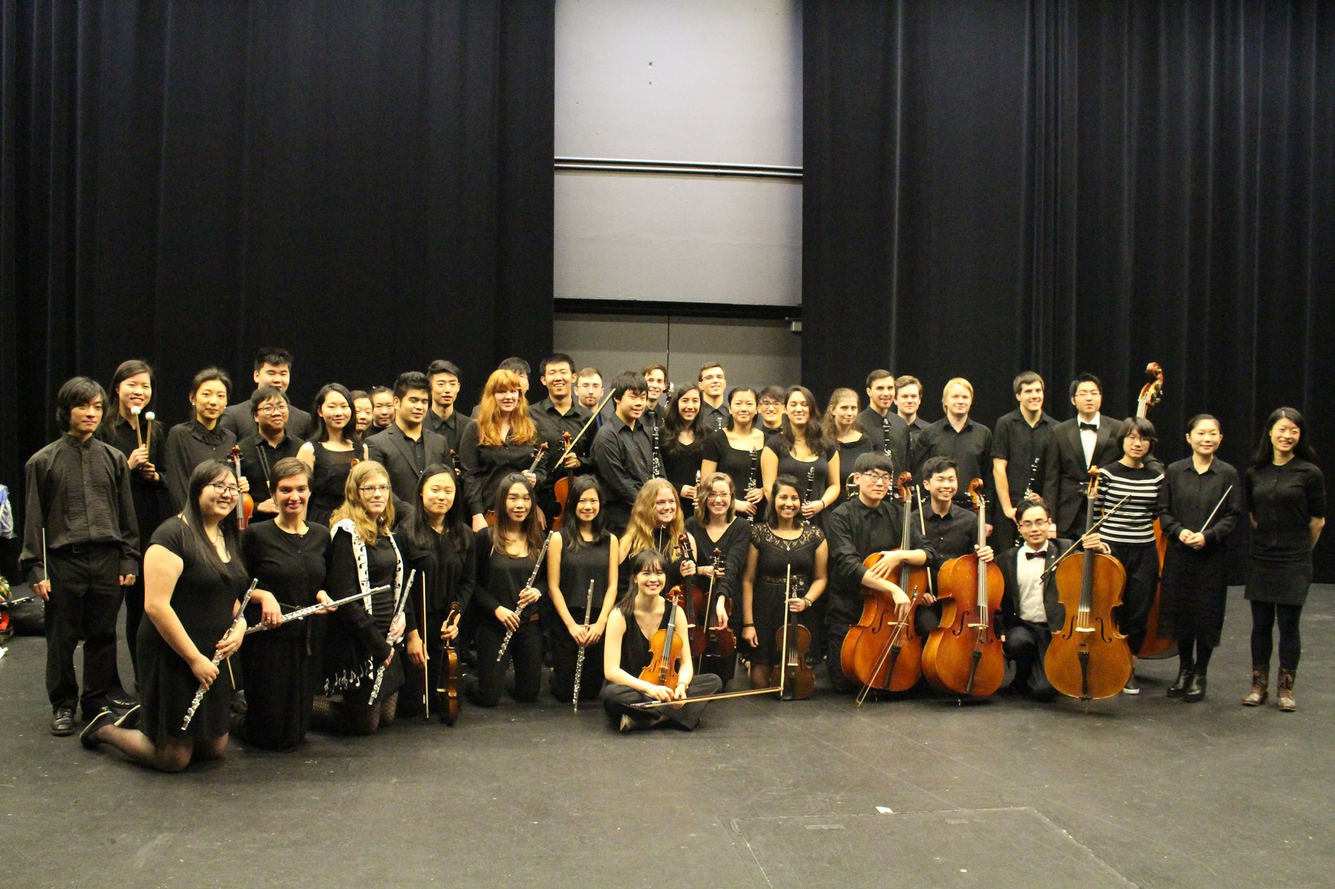
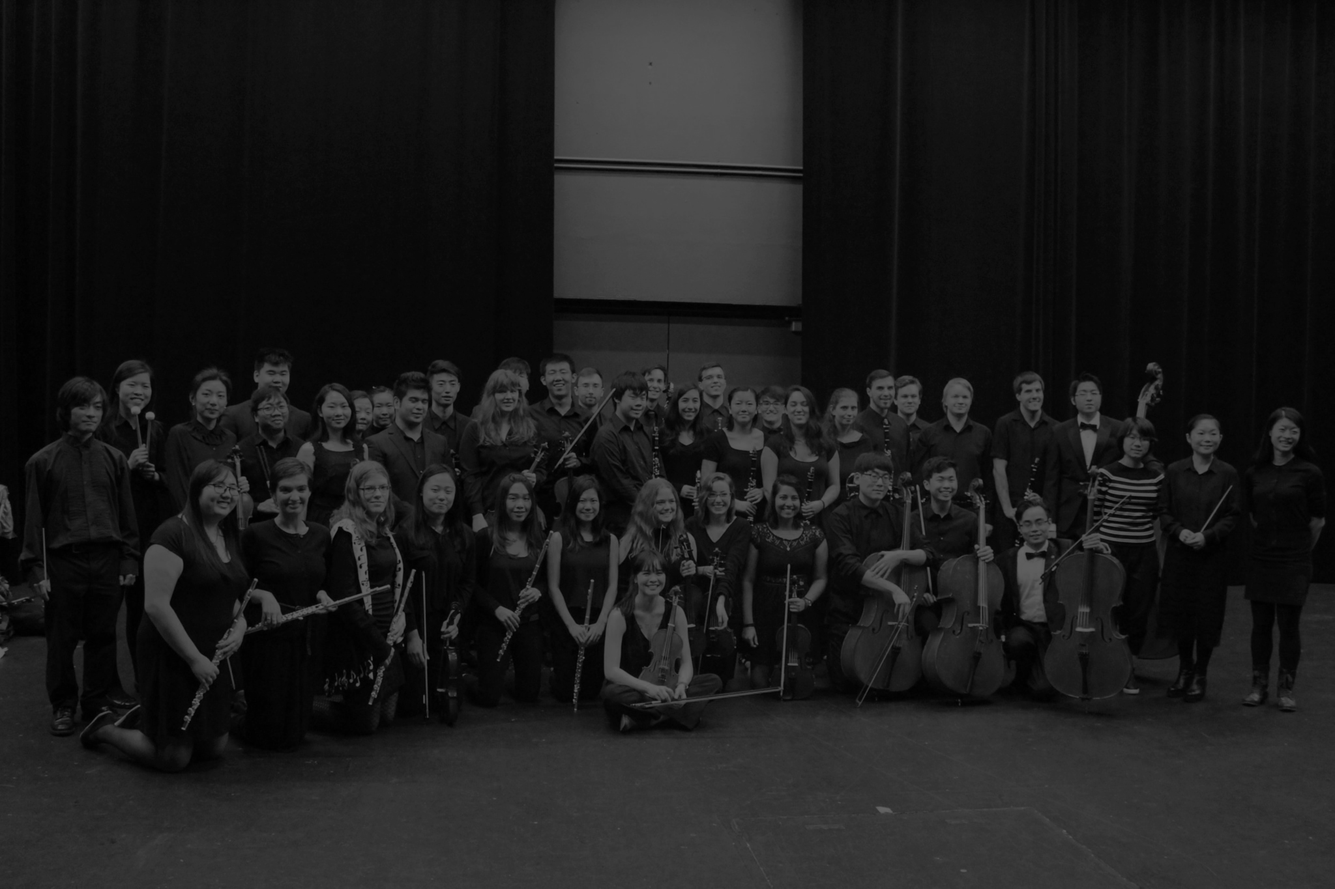
Make home section responsive

diff --git a/css/main.css b/css/main.css
@@ -57,19 +57,43 @@ section {
     Site-specific rules:
         Organized in the same order as the DOM
 ------------------------------------------------*/
-/* Navigation */
 #navigation {
-    position: absolute;
-    top: 0;
-    left: 0;
-    width: 100vw;
-    max-width: 100vw;
-    z-index: 100;
-    background-color: white;
+    padding: 0; /*Override bootstrap default padding since this should stretch the entire width*/
 }
 
-nav li {
-    list-style-type: none;
+#horizontal-nav {
+    position: relative;
+    width: 100%;
+    height: 72px;
+}
+
+@media screen and (max-width: 991px) { /* Horizontal nav changes to full at 992px (boostrap breakpoint)*/
+    #horizontal-nav {
+        background-color: rgb(26,26,26);
+    }
+}
+
+#horizontal-nav img {
+    /* The nav logo */
+    height: 100%;
+    width: auto;
+    position: absolute;
+    bottom: 0;
+    left: 0;
+}
+
+.full-horizontal-nav ul {
+    position: absolute;
+    bottom: 0;
+    right: 0;
+    margin: 0;
+    text-align: right;
+    padding-bottom: 24px;
+}
+
+.full-horizontal-nav li {
+    display: inline;
+    padding: 0px 12px;
 }
 
 #vertical-nav {
@@ -100,45 +124,21 @@ nav li {
     }
 }
 
-#horizontal-nav {
-    position: relative;
-    height: 72px;
-    width: auto;
-}
-
-#horizontal-nav div {
-    height: 100%;
-}
-
-#horizontal-nav img {
-    /* The nav logo */
-    height: 100%;
-    width: auto;
-    position: absolute;
-    bottom: 0;
-    left: 0;
-}
-
-#horizontal-nav ul {
-    position: absolute;
-    bottom: 0;
-    right: 0;
-    margin: 0;
-    text-align: right;
-    padding-bottom: 24px;
-}
-
-#horizontal-nav li {
-    display: inline;
-    padding: 0px 12px;
-}
-
 /* Home */
 #home {
     padding: 0; /* All other sections have padding top to make vertical nav smoother */
                 /* This also makes the overlay actually cover the entire width */
+    background-color: rgb(26,26,26);
+}
+
+#home .page-title h1 {
+    color: white;
+    font-size: 5rem;
+}
+
+.full-bg {
     position: relative;
-    background-image: url("../img/bg2.jpg");
+    background-image: url("../img/bg.jpg");
     background-repeat: no-repeat;
     background-attachment: fixed;
     background-position: center;
@@ -148,22 +148,42 @@ nav li {
     max-width: 100vw;
 }
 
-#home  > .overlay {
-    background-color: rgba(26,26,26,0.8);
+.full-bg .overlay {
+    background-color: rgba(26,26,26,0.5);
 }
 
-#home .page-title {
-    background-color: rgba(26,26,26, 0.95);
+.full-bg .page-title {
     position: absolute;
     width: 45%;
-    top: 60vh;
     right: 0;
+    bottom: 0;
     padding: 1.5rem 0 0 1.5rem;
+    background-color: rgba(26,26,26,0.9);
+    box-shadow: 10px 10px 10px rgba(26,26,26,0.9);
 }
 
-#home .page-title h1 {
-    color: white;
+.mobile-bg {
+    position: relative;
+    background-color: rgb(26,26,26);
+    background-size: cover;
+    height: 40vh;
+    width: auto;
+    max-width: 100vw;
 }
+
+.mobile-bg .page-title {
+    position: absolute;
+    bottom: 0;
+    right: 0;
+    text-align: right;
+}
+
+.mobile-bg .page-title h1 {
+    margin: 0;
+    font-size: 5rem;
+}
+
+
 
 /* Execs Section */
 .exec-bio img {

diff --git a/_includes/navbar.html b/_includes/navbar.html
@@ -1,18 +1,35 @@
-<div class="container">
-    <nav class="row" id="horizontal-nav">
-        <div class="two columns">
-            <a href="#home">
-                <img src="{{site.baseurl}}/img/logo.png" alt="logo" />
-            </a>
+<nav id="horizontal-nav">
+
+    <!-- Mobile nav -->
+    <div class="mobile-horizontal-nav">
+        <div class="row hidden-md hidden-lg hidden-xl">
+            <div class="two columns">
+                <a href="#home">
+                    <img src="{{site.baseurl}}/img/logo.png" alt="logo" />
+                </a>
+            </div>
         </div>
-        <div class="ten columns">
-            <ul>
-                <li><a class="default-nav" href="#home">home</a></li>
-                <li><a class="default-nav" href="#about">about</a></li>
-                <li><a class="default-nav" href="#execs">the execs</a></li>
-                <li><a class="default-nav" href="#news">news</a></li>
-                <li><a class="default-nav" href="#contact">contact</a></li>
-            </ul>
+    </div>
+
+
+    <!-- Full navbar -->
+    <div class="full-horizontal-nav">
+        <div class="row hidden-xs hidden-sm">
+            <div class="two columns">
+                <a href="#home">
+                    <img src="{{site.baseurl}}/img/logo.png" alt="logo" />
+                </a>
+            </div>
+            <div class="ten columns">
+                <ul>
+                    <li><a class="default-nav" href="#home">home</a></li>
+                    <li><a class="default-nav" href="#about">about</a></li>
+                    <li><a class="default-nav" href="#execs">the execs</a></li>
+                    <li><a class="default-nav" href="#news">news</a></li>
+                    <li><a class="default-nav" href="#contact">contact</a></li>
+                </ul>
+            </div>
         </div>
-    </nav>    
-</div>
+    </div>
+
+</nav>

diff --git a/_includes/home.html b/_includes/home.html
@@ -1,8 +1,23 @@
-<div class="overlay">
-    <div class="page-title">
-        <h1>
-            sfu
-            <b>concert orchestra</b>
-        </h1>
+<!-- Mobile layout -->
+<div class="mobile-bg hidden-md hidden-lg hidden-xl">
+    <div class="overlay">
+        <div class="page-title">
+            <h1>
+                sfu
+                <b>concert orchestra</b>
+            </h1>
+        </div>
+    </div>
+</div>
+
+<!-- Full, medium+ screen layout -->
+<div class="full-bg hidden-xs hidden-sm">
+    <div class="overlay">
+        <div class="page-title">
+            <h1>
+                sfu
+                <b>concert orchestra</b>
+            </h1>
+        </div>
     </div>
 </div>

diff --git a/index.html b/index.html
@@ -30,7 +30,7 @@
         <![endif]-->
 
     <body>
-        <div id="navigation" class="container">
+        <div id="navigation" class="container-fluid">
             {% include vertical-nav.html %}
             {% include navbar.html %}
         </div>
